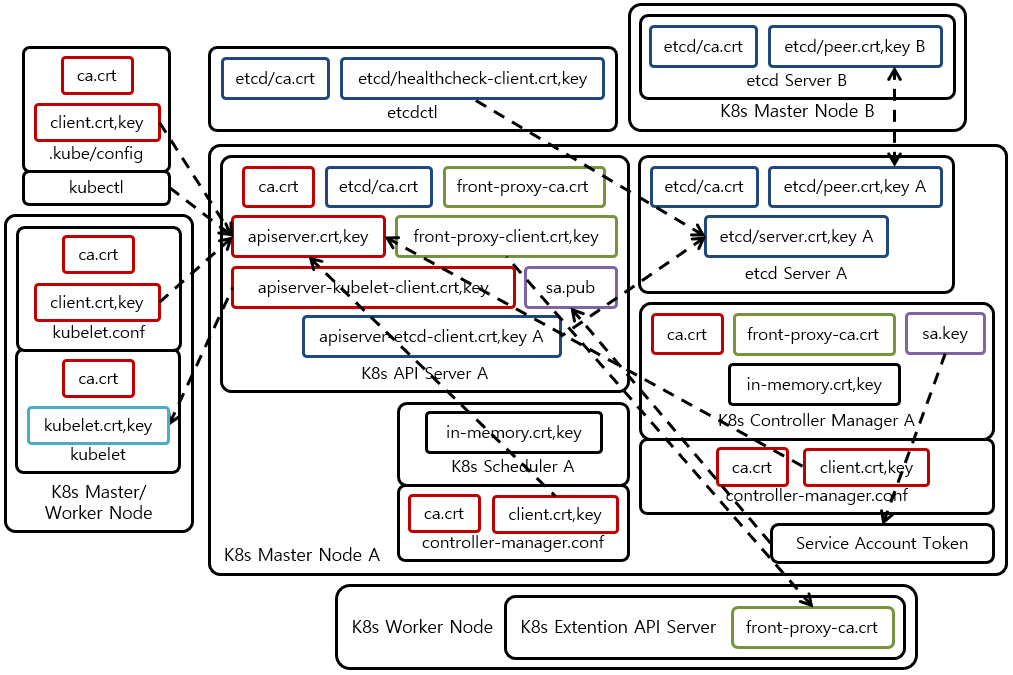
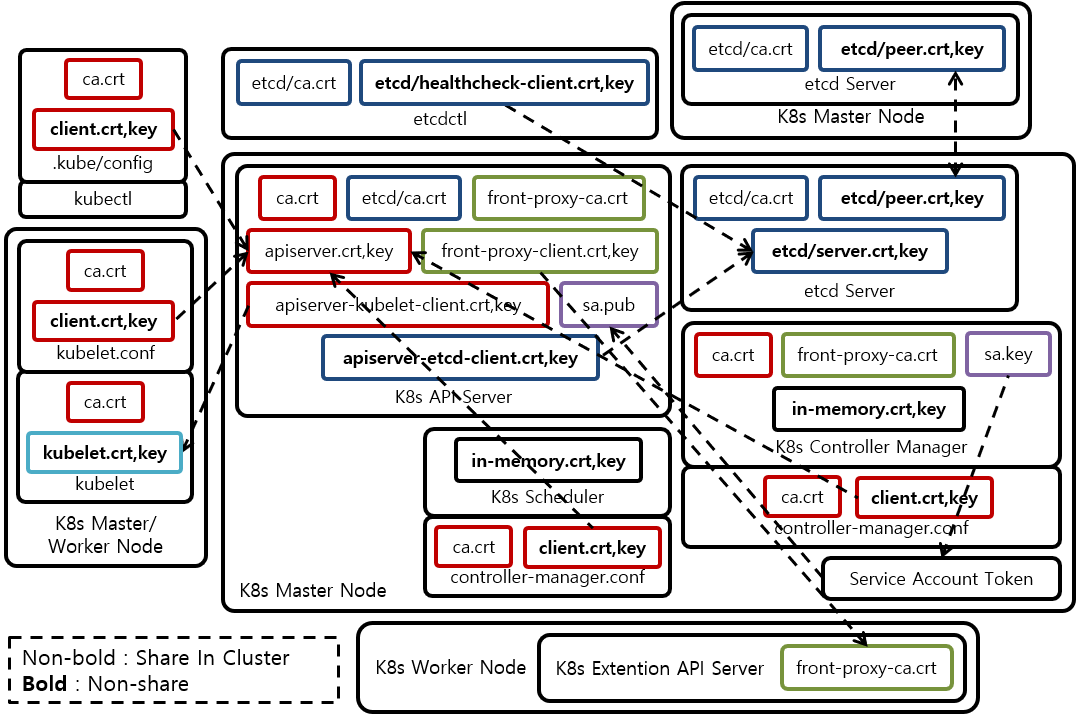
Update

Changed region(s): [[0.0, 0.0, 1.0, 1.0]]

diff --git a/_docs/theory_analysis/Kubernetes_PKI.md b/_docs/theory_analysis/Kubernetes_PKI.md
@@ -11,9 +11,19 @@ Kubernetes PKI (Public Key Infrastructure)를 분석한다.
 
 ### 1. Kubernetes PKI
 
-![[그림 1] Kubernetes Certificate, Key]({{site.baseurl}}/images/theory_analysis/Kubernetes_PKI/Kubernetes_Cert_Key.PNG)
+![[그림 1] Kubernetes Certificate, Key with kubeadm]({{site.baseurl}}/images/theory_analysis/Kubernetes_PKI/Kubernetes_Cert_Key.PNG)
 
-![[그림 2] Kubernetes PKI]({{site.baseurl}}/images/theory_analysis/Kubernetes_PKI/Kubernetes_PKI.PNG)
+Kubernetes Component들은 서로간 통신시 TLS를 이용하여 암호화 한다. [그림 1]은 kubeadm을 이용하여 Kubernetes Cluster 구성시 Kubernetes에서 TLS를 위해서 이용하는 Certificate와 Key를 나타내고 있다. 모든 Certificate는 Private CA (Certificate Authority)를 이용하여 생성한다. [그림 1]의 Tree 관계에 있는 Certificate, Key는 Chain of Trust를 나타내고 있다. sa.pub,key는 인증서를 의미하지 않고, Private/Public Key 한쌍을 의미하며, CA가 존재하지 않는다.
+
+![[그림 2] Kubernetes PKI with kubeadm]({{site.baseurl}}/images/theory_analysis/Kubernetes_PKI/Kubernetes_PKI.PNG)
+
+[그림 2]는 [그림 1]의 Cetificate와 Key를 바탕으로 kubeadm을 이용하여 구성한 Kubernetes의 PKI를 나타내고 있다. Non-bold로 표시된 Certificate, Key는 Cluster 내에서 모두 동일한 Certificate, Key를 의미한다. 예를 들어 [그림 2]에서 Kuberenetes API Server의 etcd/ca.crt와 etcd Server의 etcd/ca.crt는 동일한 Certificate를 나타낸다. Bold로 표시된 Certifcate, Key는 각 Instance/File 마다 다른 Certifcate, Key를 의미한다. 예를 들어 [그림 2]에서 etcd Server의 etcd/peer.crt,key는 각 etcd Server마다 다르다는 것을 의미한다.
+
+etcd Server에는 etcd/peer.crt,key와 etcd/server.crt,key를 이용한다. etcd/peer.crt,key는 Cluster내의 etcd Server 사이의 통신에 이용한다. etcd/server.crt,key는 etcd Server의 Certificate, Key 역활을 수행하며 etcd의 Client인 etcdctl 또는 Kubernetes API Server와의 통신시에 이용한다. etcdctl은 etcd Server에 연결시 etcd/healthcheck-client.crt,key를 이용한다.
+
+etcd를 제외한 나머지 Kubernetes Component들은 ca.crt를 기반으로 생성된 client.crt,key를 이용하여 apiserver.crt,key를 이용하는 Kubernetes API Server와 통신한다. Kubernetes API Server는 kubelet에 연결시 apiserver-kublet-client.crt,key를 이용하고, Kubernetes 사용자가 정의하는 Kubernetes Extention API Server에 연결시 front-proxy-client.crt,key 파일을 이용한다. kubelet은 스스로 생성한 kubelet.crt,key를 이용하여 Server 역활을 수행한다. Kubernetes Scheduler, Controller Manager도 Memory에 스스로 생성한 Certificate, Key를 이용하여 Server 역활을 수행한다.
+
+sa.pub,key는 Kubernetes의 Service Account Token을 암후화/복호화 하는데 이용된다. Service Account Token은 Kubernetes Controller Manager에서 암호화 되며 Kubernetes API Server에서 복호화 된다.
 
 ### 2. 참고
 
